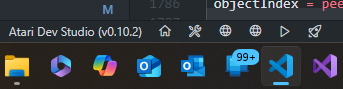
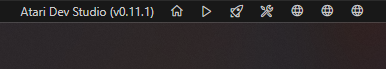
Updated readme and images

diff --git a/README.md b/README.md
@@ -30,26 +30,21 @@ Visual Studio Code (VS Code) is a streamlined code editor with support for devel
 ### Which OSs are supported?
 VS Code is a cross-platform application which runs on Windows, Linux and macOS. See [requirements](https://code.visualstudio.com/docs/supporting/requirements) for the supported versions.
 
-#### Windows
+#### Microsoft Windows
 No special considerations. Windows users should be able to use Atari Dev Studio as is.
 
 #### Linux
 Linux users on 64-bit systems will be required to install the 32-bit compatibility libraries on your system to ensure everything will run as expected.
 
-#### macOS
+#### Apple macOS
 macOS users require a 64-bit operating system to fully utilise all features of Atari Dev Studio and will be required to install the SDL libraries on your system to ensure the A7800 emulator will run as expected.
 
-> Note: 7800basic v0.37 now uses WASM for cross-platform compatibility therefore this information currently relates to batari Basic or older releases of 7800basic only and will be removed once bB is converted.
 
-Mac computers with [Apple silicon](https://support.apple.com/116943) currently have a few options:
+### WASM
+With the introduction of batari Basic 1.9 and 7800basic v0.37, the language compilers now utilise WASM for cross-platform compatibility with the **wasmtime** runtime required to be installed for the compilation of your games.  For ease of use, during startup of the Atari Dev Studio extension this will be validated and automatically installed as required.
 
-1.  Thanks to Scott Lahteine (thinkyhead), Atari Dev Studio now includes `*.Darwin.arm64` (Apple silicon) binaries of relatively recent versions of bB, 7800basic, Stella and dasm.
-    Note, these the are *not* the latest versions of these tools. See the atariage [discussion](https://atariage.com/forums/topic/333127-ataribasic-will-it-run-on-the-m1-mac)
-    around additional issues you might encounter.
-2.  Manually build `*.Darwin.arm64` (Apple silicon) binaries from source and configure Atari Dev Studio to use use your locally built binaries. See `README-macos.md` for instructions.
-3.  Install and run the INTEL CHIP version of VS Code instead of the Apple Silicon version. This will cause Atari Dev Studio to use the Intel binaries, `*.Darwin.x86` / `*.Darwin.x64`.
+> NOTE: the option to validate the availability of the **wasmtime** runtime can be turned off in the **Settings**.
 
-Older Mac computers with Intel chips should be able to use Atari Dev Studio as is.
 
 ### Installing the extension
 Once you have installed VS Code (available [here](https://code.visualstudio.com/Download)), open the VS Code program and complete the following:
@@ -61,9 +56,6 @@ Once you have installed VS Code (available [here](https://code.visualstudio.com/
 
 ### Updating the extension
 Updates are regularly provided and you will be notified via VS Code when one has been made available. Once an update has been installed you will generally be prompted to restart VS Code.
-
-### Starting the extension
-7800basic (0.37 onwards) requires the installation of the [wasmtime](https://wasmtime.dev/) runtime on all platforms. During startup of the Atari Dev Studio extension this will be validated and automatically installed as required.
 
 
 ## Using Atari Dev Studio
@@ -80,7 +72,7 @@ To display the available extension features press **CTRL+SHIFT+P** to display th
 
 ![Command Palette](images/ataridevstudio-commandpalette.png)
 
-### Language Selection
+## Language Selection
 When you load a file the initial language will be chosen based on the file extension.  For example:
 * batari Basic (.bas, .bb) [Default for .bas files]
 * 7800basic (.bas, .78b)
@@ -89,6 +81,27 @@ When you load a file the initial language will be chosen based on the file exten
 To change a language you can click on the Status Bar **Language selector** and a list will be shown allowing you to choose another language. Optionally in the **Settings** you will be able to either let the extension choose based on the active language or set a specific language to always compile against.
 
 ![Language Selector](images/ataridevstudio-languageselector.png)
+
+### Language Definition Tags (Available from v0.11.1)
+
+Starting with **v0.11.1**, you can define the default language and compiler for your source files using **definition tags** directly in your code. This allows you to override the default behavior of relying on file extensions and other options.
+
+![Language Definition Tags](images/ataridevstudio-languagedefinitiontags.png)
+
+#### `;#ADSLanguage=`
+
+Use this tag to specify the **default language** for the document.
+
+- 7800basic
+- batariBasic
+- Make *(see below - recommended only for advanced users)*
+
+#### `;#ADSCompiler=`
+
+Use this tag to specify the **default compiler** for the document. To add additional compilers, you can create a **custom compiler list** for each language in the **Settings**.  
+
+> **Tip:** Definition tags are **IntelliSense-aware**, so you'll receive auto-completion and suggestions as you type.
+
 
 ### Build scripts [preview]
 Prefer using scripts to build your dasm games? If you have chosen to override the dasm compiler (select Make via the **Settings**) , Atari Dev Studio will scan and detect for makefile, batch (makefile.bat) or shell scripts (makefile.sh) files which are located in your root workspace folder to build your game.
@@ -100,7 +113,8 @@ Prefer using scripts to build your dasm games? If you have chosen to override th
 ### Status Bar
 Apart from using the **Command Palette** to select compilation, there are a number of short-cut buttons on the **Status Bar** allowing you to:
 * Display the extension version (might be useful at times)
-* Open Welcome page* Compile source code (Shift+F5)
+* Open Welcome page
+* Compile source code (Shift+F5)
 * Compile source code and launch [via emulator or cart] (F5)
 * Open Sprite Editor
 * Open PlayerPal Editor (2600)
@@ -109,7 +123,7 @@ Apart from using the **Command Palette** to select compilation, there are a numb
 
 ![Status Bar](images/ataridevstudio-statusbar.png)
 
-> Note: the short-cut buttons on the **Status Bar** can be minimised or turned off via the **Settings**.
+> Note: the short-cut buttons on the **Status Bar** can be minimised or turned off in the **Settings**.
 
 ### Sprite Editor [preview]
 Atari Dev Studio includes a simple and easy to use Sprite Editor allowing you to create sprites, tiles and other objects for use in your projects.  It has the following features:
@@ -143,17 +157,10 @@ During the development phase of the extension I've added some developer output t
 ## Known Issues
 There are currently no known feature issues but if you find a problem please raise an issue on [GitHub](https://github.com/chunkypixel/atari-dev-studio/issues) or contact [mksmith](http://atariage.com/forums/user/66583-mksmith/) at the AtariAge community.
 
-### Virus capture
-On Windows when using the 7800basic or batari Basic compilers, occasionally some of the compile chain files are captured by virus protection software (eg. Windows Security) and quarantined. This is a false/positive case but you will need to release/restore these file(s) when required to allow the compilation to succeed. You should find a file verification error in the compile log identifying this potential capture:
+### Virus capture of compiler files
+With the introduction of the WASM releases of batari Basic and 7800basic you should no longer encounter issues with the language compiler files being captured by your virus software due to false/positives.  Be aware that if you revert to using prior releases built specifically for Microsoft Windows this may still continue.  
 
-![Error](images/ataridevstudio-verfiyingcompilerfileexists.png)
-
-If you have specific installed virus software consult your manual to release/restore the file(s).  Alternatively `Windows Security` will have captured the file(s).  Complete the following as required:
-
-* **Windows 10** - Open `Settings`, select `Update & Security` then `Windows Security` from the sidebar.
-* **Windows 11** - Open `Settings`, select `Privacy & Security` from the sidebar, then `Windows Security` from the list.
-
-Locate the `Virus & threat protection` item and follow the prompts to release/restore the required file(s).
+Consult your manual on how to release/restore the required file(s) where this happens.
 
 
 ## Acknowlegments
@@ -166,13 +173,13 @@ This extension is only available due to the great people of the AtariAge communi
 * PlayerPal 2600 and Atari Background Builder (kisrael)
 * Mats Engstrom (SmallRoomLabs)
 * Scott Lahteine (thinkyhead) for the MacOS ARM Compatibility for bB, 7800basic, Stella, dasm
-* Fred Sauer (fredsa) for product suggestions and additional information relating to the MacOS ARM releases and self compilation of the language compilers. Learn more [here](README-macos.md).
+* Fred Sauer (fredsa) for product suggestions and additional information relating to the previous MacOS ARM releases and self compilation of the language compilers.
 * The AtariAge community including Albert, CPUWiz, Random Terrain, Trebor, Synthpopalooza, sramirez2008, Defender_2600, Gemintronic, Karl G, ZeroPage Homebrew, Muddyfunster, TwentySixHundred, Lillapojkenpåön, Andrew Davie, splendidnut, andyjp, sexyUnderwriter, MikeBrownEmplas, Generation2Games, cwieland, slacker, milnak
 
 ## Languages
 Atari Dev Studio includes the following programming languages:
 
-### batari Basic (release 1.8 - 20250615, macOS ARM64 release 1.6)
+### batari Basic (release 1.9 - 20251013 [WASM])
 batari Basic created by Fred 'batari' Quimby is a BASIC-like language used in the creation of Atari 2600 games. batari Basic is compiled to generate a binary file that can by used on actual Atari 2600 VCS hardware via cartridge (such as a Harmony or UNO cart) or by using an Atari 2600 VCS emulator such as Stella.
 
 batari Basic is an external project is kindly currently maintained by Mike Saarna (RevEng) and can be downloaded separately [here](https://github.com/batari-Basic/batari-Basic).  Further information is about this release is available here at [AtariAge](https://atariage.com/forums/topic/300856-official-home-for-batari-basic).
